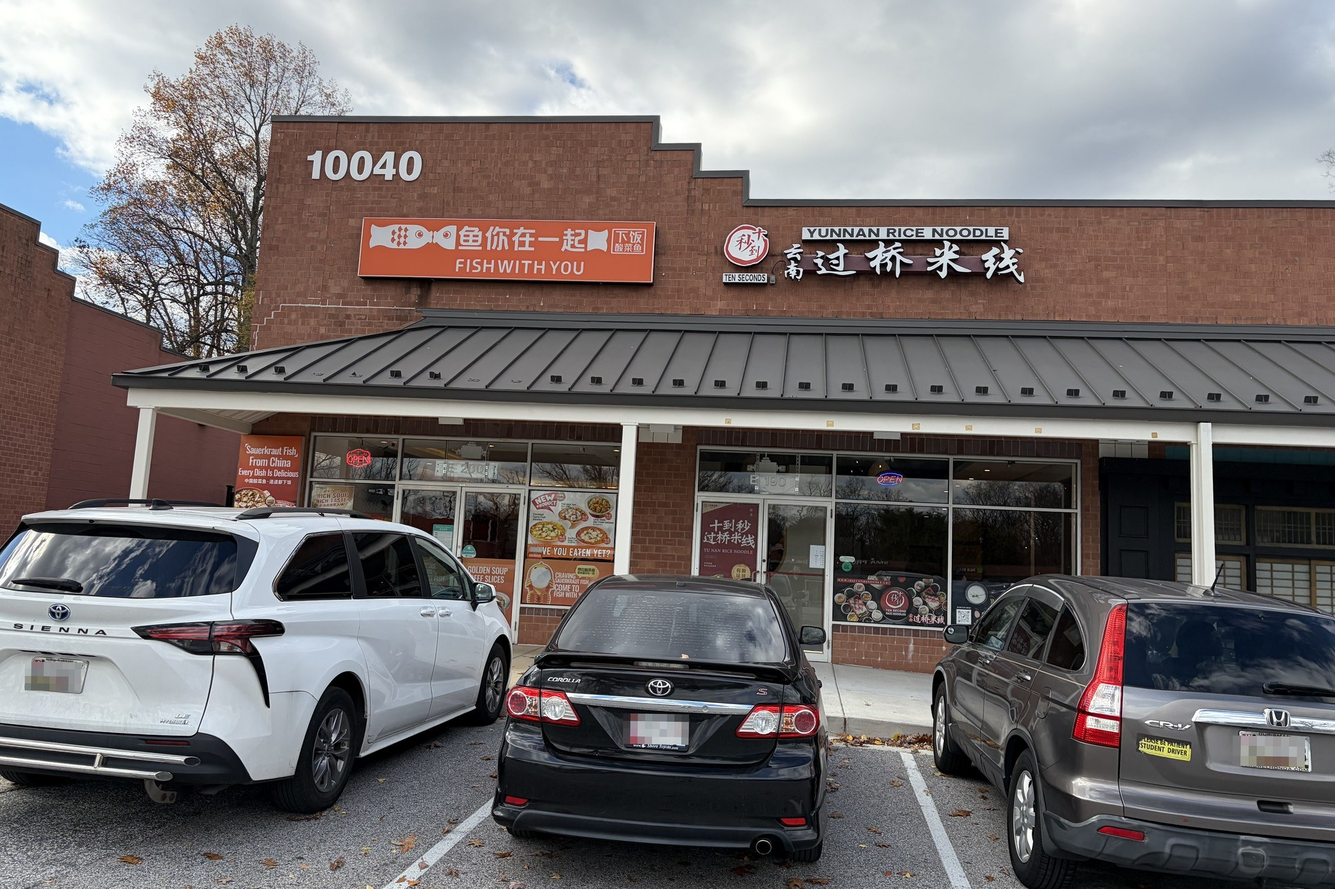
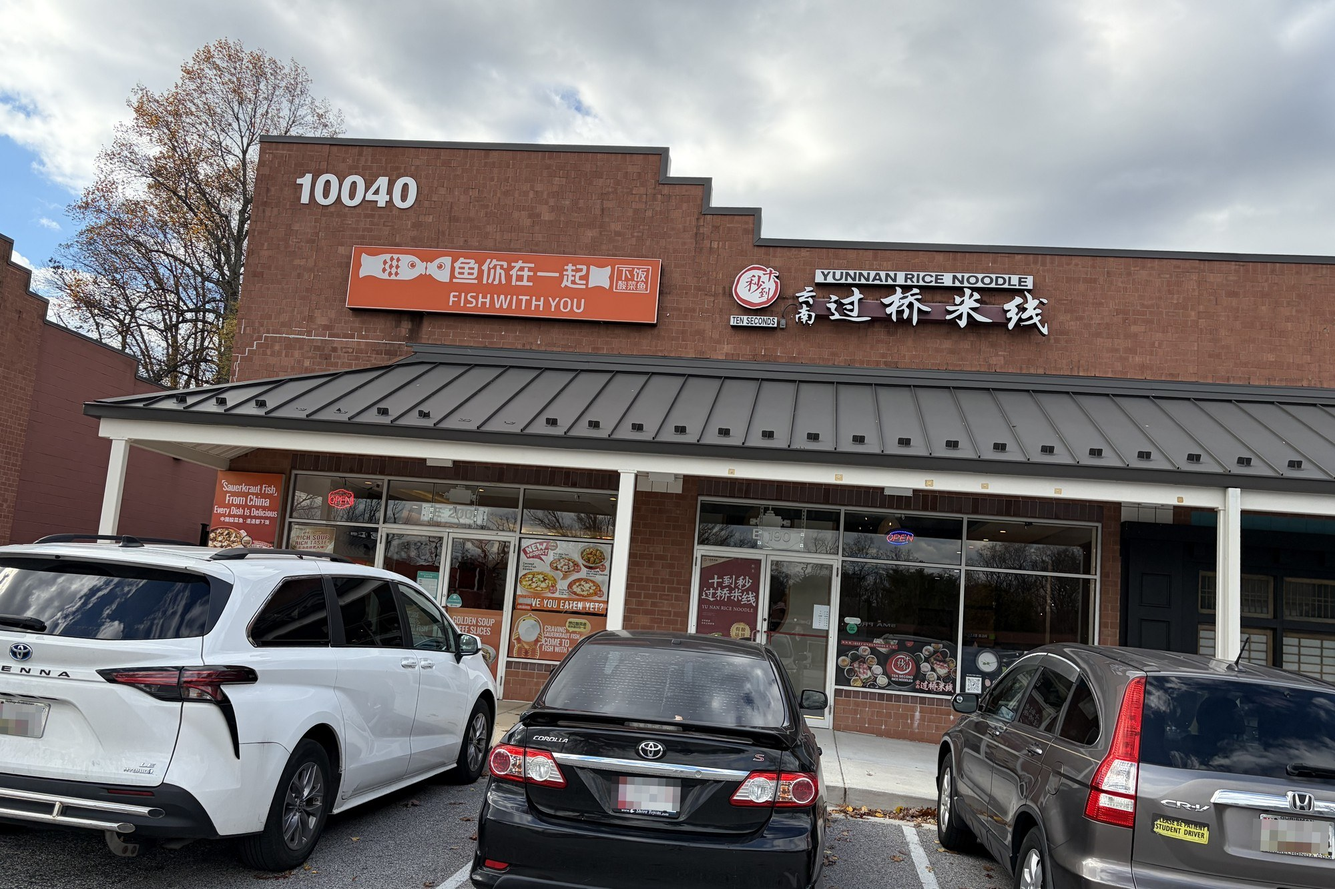
Co-tenancy: re-level Ellicott City photo + drop the Flushing figure
- Re-level the Ellicott City co-tenancy photo: the facade actually sloped ~2.7°
  down to the right (my first pass corrected the wrong way and far too little).
  Re-derived the angle from the awning edge and rotated -2.7° to true horizontal;
  plate masks re-applied before the rotation.
- Remove the Flushing figure from centers.html: a generic stock street scene that
  showed nothing specific. The page now carries the two real, owner-shot
  co-tenancy frames (Novo Marketplace + Ellicott City).

diff --git a/map/centers.html b/map/centers.html
@@ -84,16 +84,6 @@
     <div style="display:grid;grid-template-columns:repeat(auto-fit,minmax(260px,1fr));gap:16px;margin:0 0 8px">
       <figure style="margin:0">
         <div style="position:relative;aspect-ratio:3/2;border:1px solid var(--ink);overflow:hidden;background:var(--grey-base)">
-          <picture><source srcset="photos/hub-flushing.webp" type="image/webp">
-            <img src="photos/hub-flushing.jpg" loading="lazy" alt="Downtown Flushing, Queens: a busy street of China-origin shops with Chinese-language signs" style="width:100%;height:100%;object-fit:cover;display:block"></picture>
-        </div>
-        <figcaption style="padding-top:8px;font-size:13px;color:var(--muted)">
-          <span data-i18n="centers.cap.flushing"><strong style="color:var(--ink)">Flushing, Queens (NY)</strong> — the densest US hub for China-origin chains; home to the 18-brand Tangram cluster.</span>
-          <br><span style="font-size:12px">Photo: <a href="https://commons.wikimedia.org/wiki/File:Flushing_Queens_May_2015_2.jpg">Epicgenius</a> / <a href="https://creativecommons.org/licenses/by-sa/4.0">CC BY-SA 4.0</a></span>
-        </figcaption>
-      </figure>
-      <figure style="margin:0">
-        <div style="position:relative;aspect-ratio:3/2;border:1px solid var(--ink);overflow:hidden;background:var(--grey-base)">
           <picture><source srcset="photos/cotenancy-novo.webp" type="image/webp">
             <img src="photos/cotenancy-novo.jpg" loading="lazy" alt="Zhengxin Chicken Steak, Cotti Coffee and Molly Tea sharing the Novo Marketplace food hall in Allston, Boston" style="width:100%;height:100%;object-fit:cover;display:block"></picture>
         </div>
